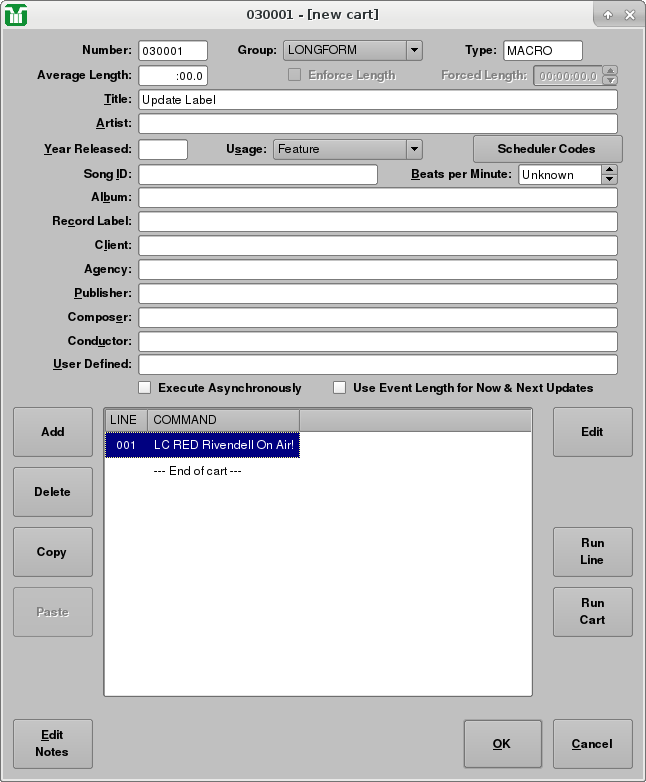
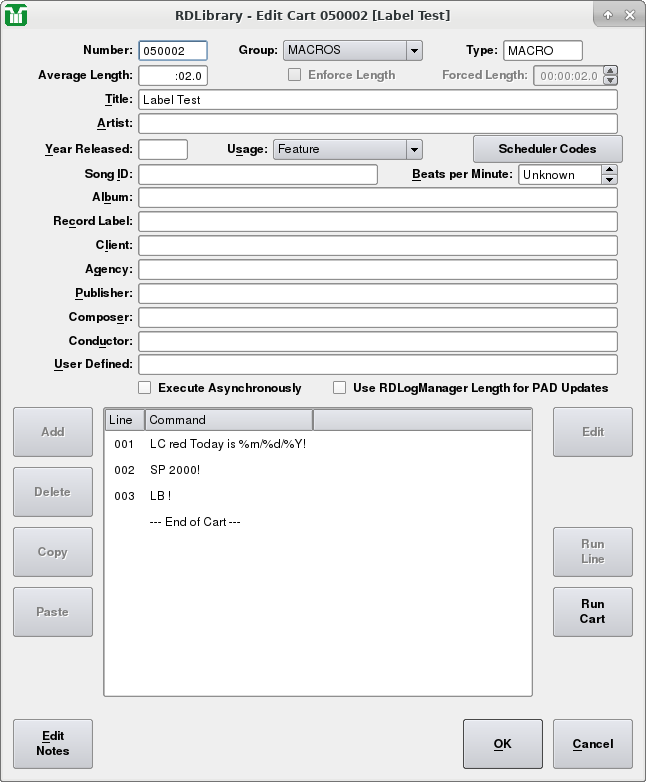
2019-02-04 Fred Gleason <fredg@paravelsystems.com> 	* Fixed a regression in rdairplay(1) that caused macro carts with 	the 'Use Event Length for Now & Next Updates' attribute set to 	fail to use the parent rdlogmanager(1) event/clock duration. 	* Renamed the 'Use Event Length for Now & Next Updates'

diff --git a/rdlibrary/rdlibrary_pt_BR.ts b/rdlibrary/rdlibrary_pt_BR.ts
@@ -919,10 +919,6 @@ limite do sistema!   Você ainda quer salvar?</translation>
         <translation type="unfinished"></translation>
     </message>
     <message>
-        <source>Use Event Length for Now &amp;&amp; Next Updates</source>
-        <translation type="unfinished"></translation>
-    </message>
-    <message>
         <source>By Specified Order</source>
         <translation type="unfinished"></translation>
     </message>
@@ -948,6 +944,10 @@ limite do sistema!   Você ainda quer salvar?</translation>
     </message>
     <message>
         <source>Edit Cart</source>
+        <translation type="unfinished"></translation>
+    </message>
+    <message>
+        <source>Use RDLogManager Length for PAD Updates</source>
         <translation type="unfinished"></translation>
     </message>
 </context>

diff --git a/rdlibrary/rdlibrary_cs.ts b/rdlibrary/rdlibrary_cs.ts
@@ -933,10 +933,6 @@ poznámky</translation>
         <translation type="unfinished"></translation>
     </message>
     <message>
-        <source>Use Event Length for Now &amp;&amp; Next Updates</source>
-        <translation type="unfinished"></translation>
-    </message>
-    <message>
         <source>By Specified Order</source>
         <translation type="unfinished"></translation>
     </message>
@@ -962,6 +958,10 @@ poznámky</translation>
     </message>
     <message>
         <source>Edit Cart</source>
+        <translation type="unfinished"></translation>
+    </message>
+    <message>
+        <source>Use RDLogManager Length for PAD Updates</source>
         <translation type="unfinished"></translation>
     </message>
 </context>

diff --git a/rdlibrary/rdlibrary_es.ts b/rdlibrary/rdlibrary_es.ts
@@ -922,10 +922,6 @@ Notas</translation>
         <translation type="unfinished"></translation>
     </message>
     <message>
-        <source>Use Event Length for Now &amp;&amp; Next Updates</source>
-        <translation type="unfinished"></translation>
-    </message>
-    <message>
         <source>By Specified Order</source>
         <translation type="unfinished"></translation>
     </message>
@@ -951,6 +947,10 @@ Notas</translation>
     </message>
     <message>
         <source>Edit Cart</source>
+        <translation type="unfinished"></translation>
+    </message>
+    <message>
+        <source>Use RDLogManager Length for PAD Updates</source>
         <translation type="unfinished"></translation>
     </message>
 </context>

diff --git a/rdlibrary/rdlibrary_de.ts b/rdlibrary/rdlibrary_de.ts
@@ -921,10 +921,6 @@ Notes</source>
         <translation type="unfinished"></translation>
     </message>
     <message>
-        <source>Use Event Length for Now &amp;&amp; Next Updates</source>
-        <translation type="unfinished"></translation>
-    </message>
-    <message>
         <source>By Specified Order</source>
         <translation type="unfinished"></translation>
     </message>
@@ -950,6 +946,10 @@ Notes</source>
     </message>
     <message>
         <source>Edit Cart</source>
+        <translation type="unfinished"></translation>
+    </message>
+    <message>
+        <source>Use RDLogManager Length for PAD Updates</source>
         <translation type="unfinished"></translation>
     </message>
 </context>

diff --git a/rdlibrary/rdlibrary_fr.ts b/rdlibrary/rdlibrary_fr.ts
@@ -747,10 +747,6 @@ Notes</source>
         <translation type="unfinished"></translation>
     </message>
     <message>
-        <source>Use Event Length for Now &amp;&amp; Next Updates</source>
-        <translation type="unfinished"></translation>
-    </message>
-    <message>
         <source>By Specified Order</source>
         <translation type="unfinished"></translation>
     </message>
@@ -776,6 +772,10 @@ Notes</source>
     </message>
     <message>
         <source>Edit Cart</source>
+        <translation type="unfinished"></translation>
+    </message>
+    <message>
+        <source>Use RDLogManager Length for PAD Updates</source>
         <translation type="unfinished"></translation>
     </message>
 </context>

diff --git a/rdlibrary/rdlibrary_nb.ts b/rdlibrary/rdlibrary_nb.ts
@@ -917,10 +917,6 @@ Notes</source>
         <translation type="unfinished"></translation>
     </message>
     <message>
-        <source>Use Event Length for Now &amp;&amp; Next Updates</source>
-        <translation type="unfinished"></translation>
-    </message>
-    <message>
         <source>By Specified Order</source>
         <translation type="unfinished"></translation>
     </message>
@@ -946,6 +942,10 @@ Notes</source>
     </message>
     <message>
         <source>Edit Cart</source>
+        <translation type="unfinished"></translation>
+    </message>
+    <message>
+        <source>Use RDLogManager Length for PAD Updates</source>
         <translation type="unfinished"></translation>
     </message>
 </context>

diff --git a/rdlibrary/rdlibrary_nn.ts b/rdlibrary/rdlibrary_nn.ts
@@ -917,10 +917,6 @@ Notes</source>
         <translation type="unfinished"></translation>
     </message>
     <message>
-        <source>Use Event Length for Now &amp;&amp; Next Updates</source>
-        <translation type="unfinished"></translation>
-    </message>
-    <message>
         <source>By Specified Order</source>
         <translation type="unfinished"></translation>
     </message>
@@ -946,6 +942,10 @@ Notes</source>
     </message>
     <message>
         <source>Edit Cart</source>
+        <translation type="unfinished"></translation>
+    </message>
+    <message>
+        <source>Use RDLogManager Length for PAD Updates</source>
         <translation type="unfinished"></translation>
     </message>
 </context>

diff --git a/rdlibrary/edit_cart.cpp b/rdlibrary/edit_cart.cpp
@@ -506,7 +506,8 @@ EditCart::EditCart(unsigned number,QString *path,bool new_cart,bool profile_rip,
   rdcart_use_event_length_box->hide();
   QLabel *rdcart_use_event_length_label=
     new QLabel(rdcart_use_event_length_box,
-	       tr("Use Event Length for Now && Next Updates"),this);
+	       tr("Use RDLogManager Length for PAD Updates"),this);
+  //	       tr("Use Event Length for Now && Next Updates"),this);
   rdcart_use_event_length_label->setGeometry(350,351,sizeHint().width()-350,19);
   rdcart_use_event_length_label->setFont(button_font);
   rdcart_use_event_length_label->setAlignment(Qt::AlignLeft|Qt::TextShowMnemonic);

diff --git a/lib/rdlogplay.cpp b/lib/rdlogplay.cpp
@@ -3053,7 +3053,12 @@ QString RDLogPlay::GetPadJson(const QString &name,RDLogLine *ll,
     else {
       ret+=RDJsonNullField("cutNumber",4+padding);
     }
-    ret+=RDJsonField("length",ll->forcedLength(),4+padding);
+    if(ll->useEventLength()) {
+      ret+=RDJsonField("length",ll->eventLength(),4+padding);
+    }
+    else {
+      ret+=RDJsonField("length",ll->forcedLength(),4+padding);
+    }
     if(ll->year().isValid()) {
       ret+=RDJsonField("year",ll->year().year(),4+padding);
     }
